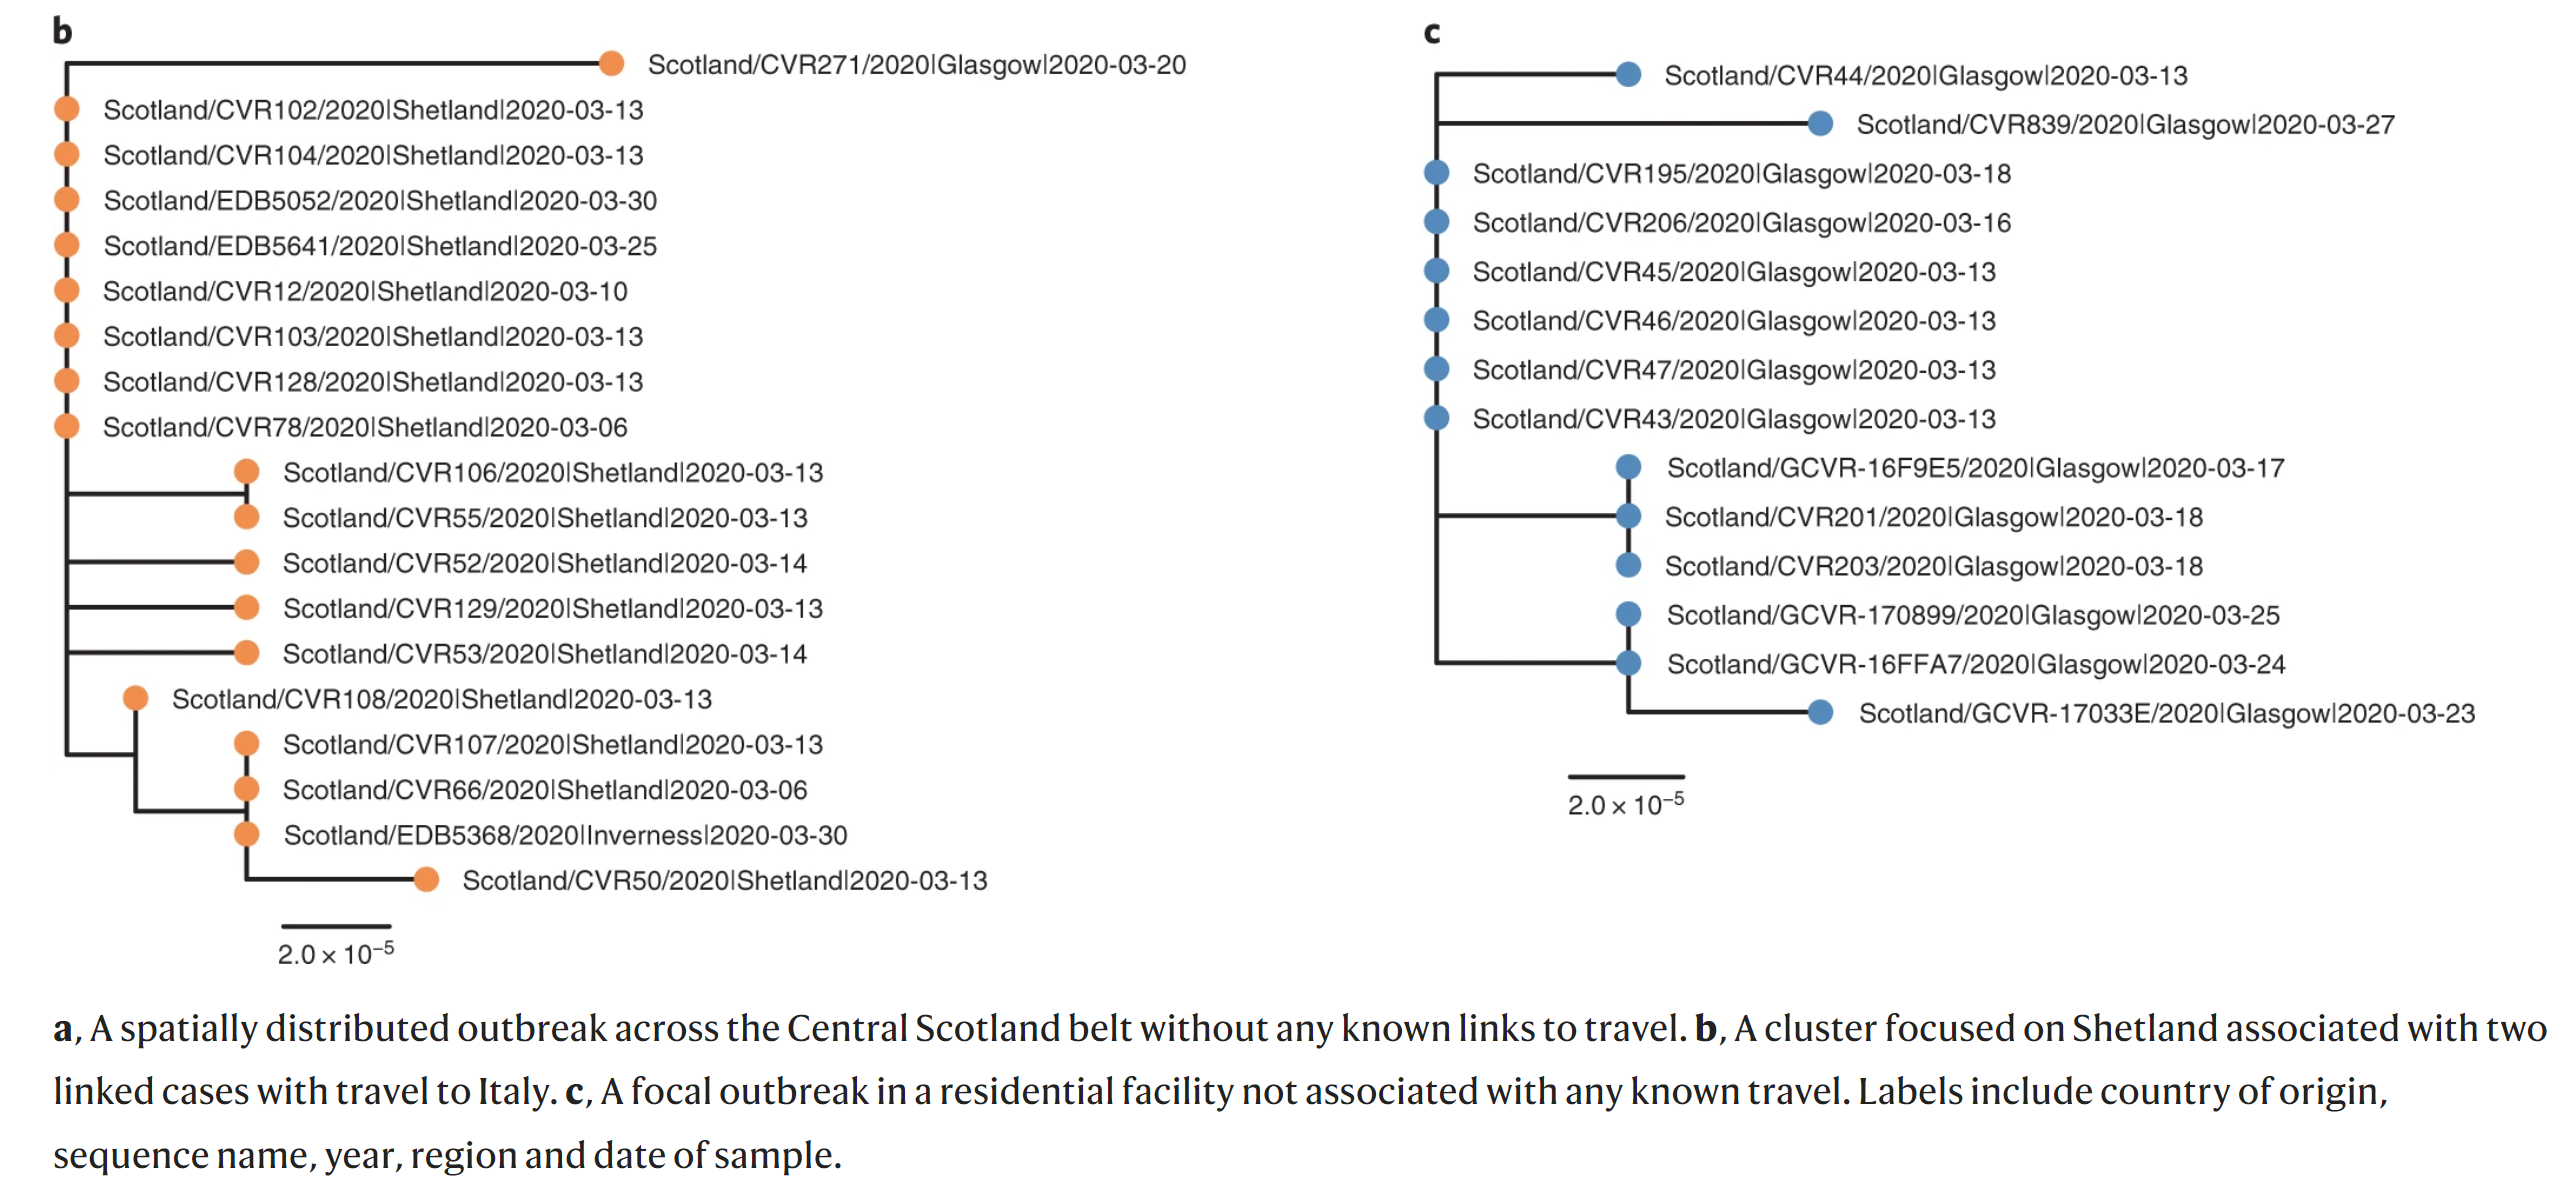
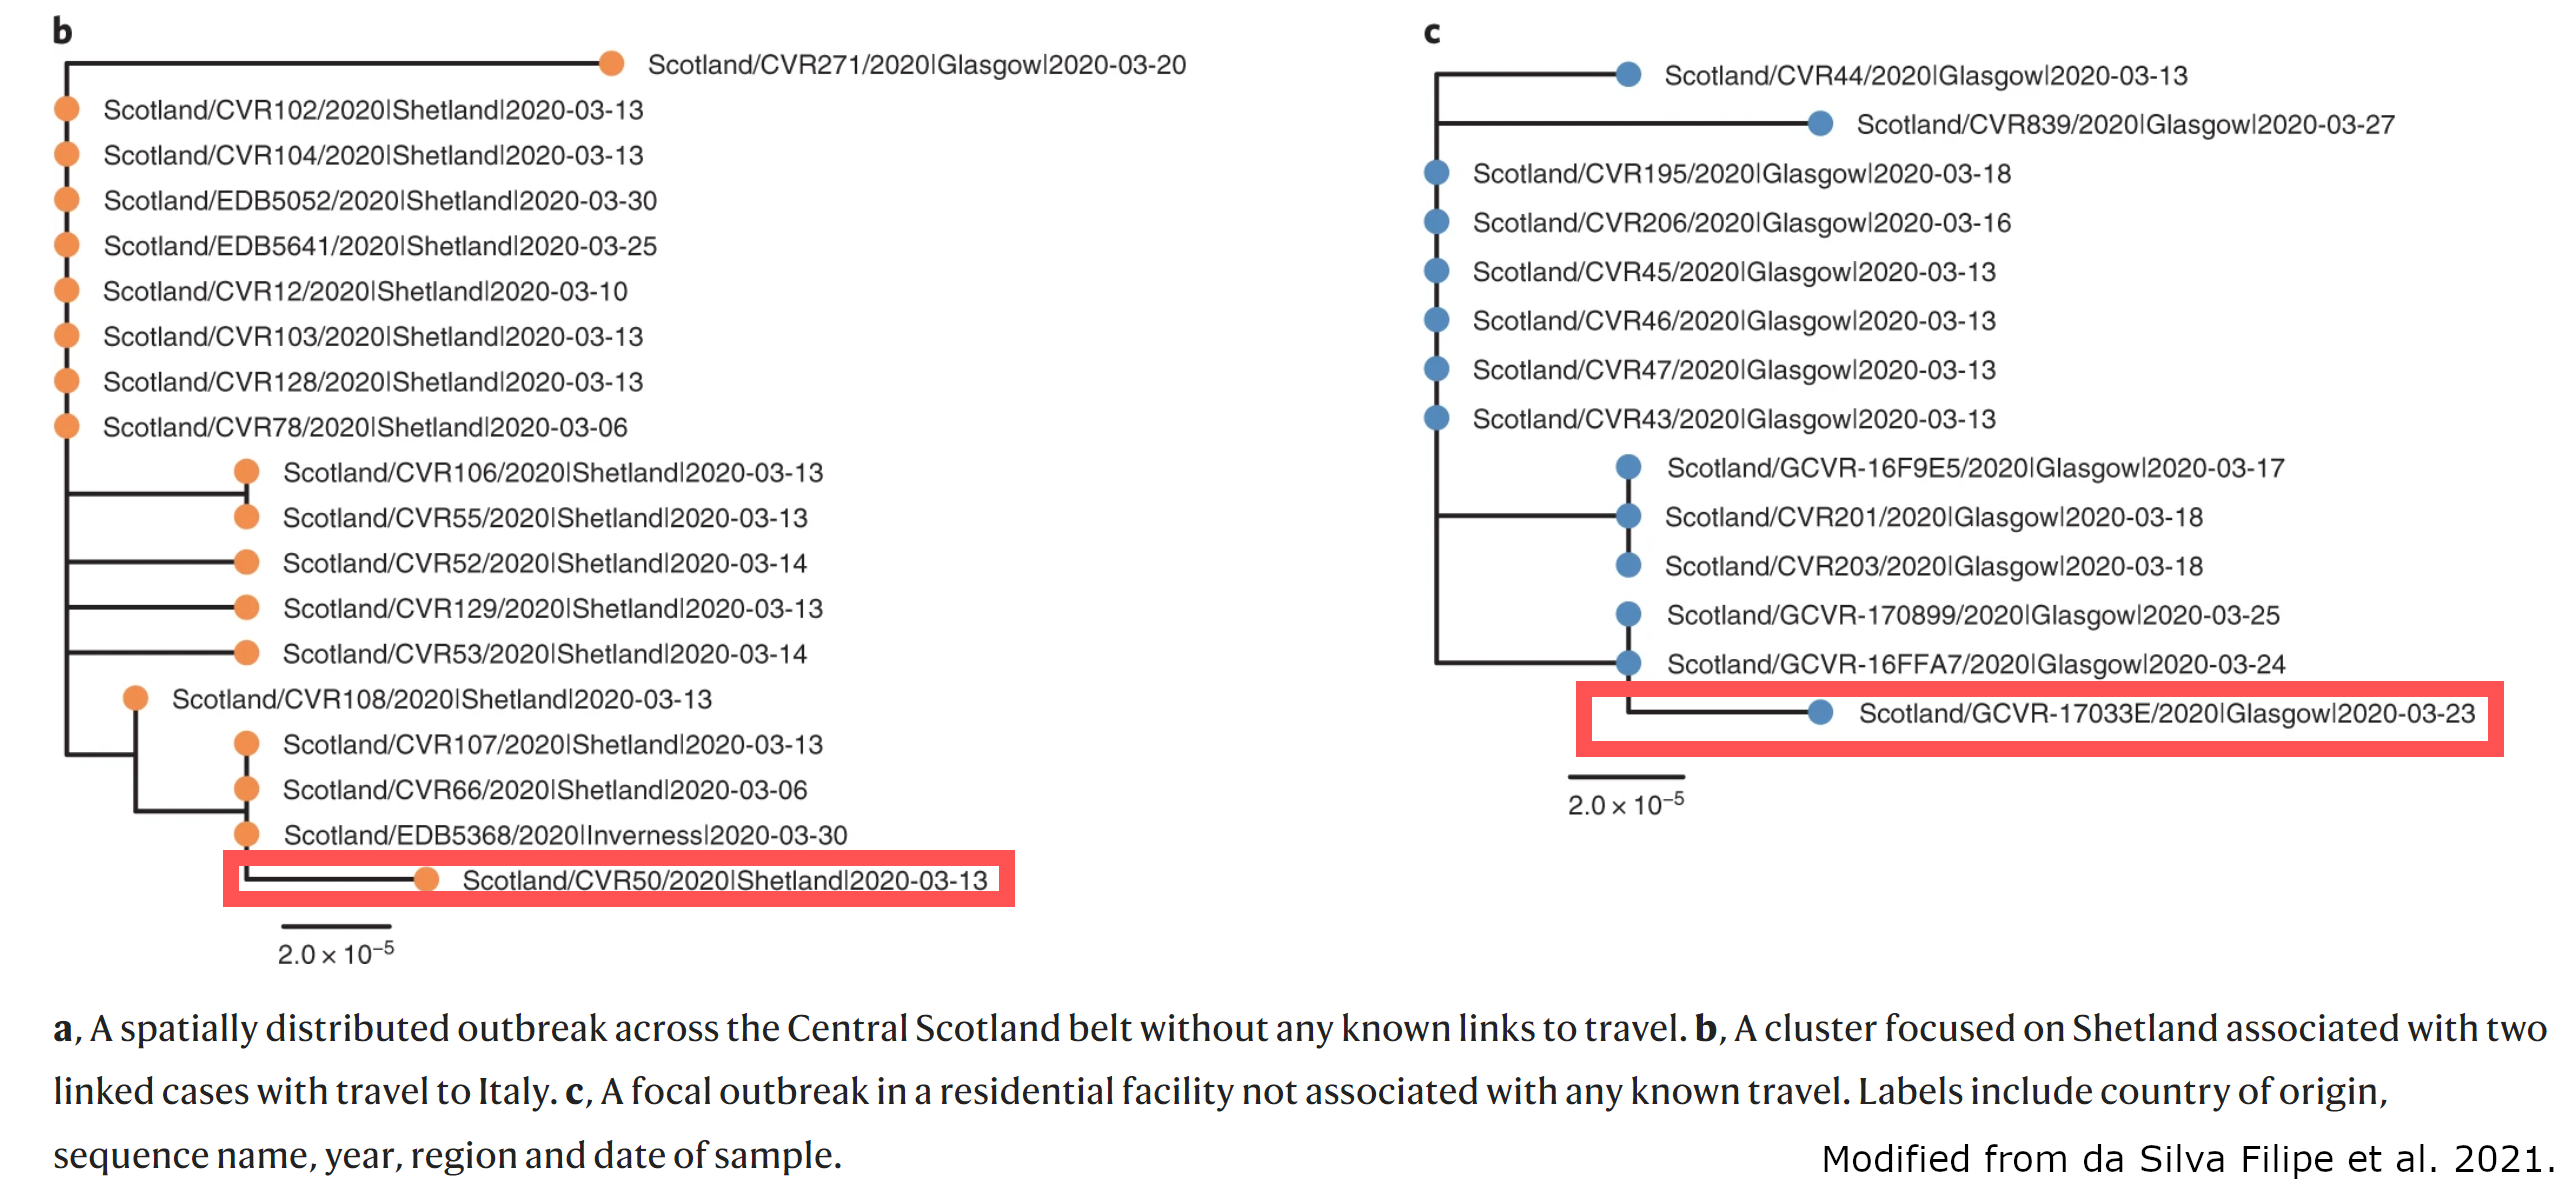
Updated with instructions on exploring the tree

Changed region(s): [[0.5905, 0.5625, 0.9946, 0.6562], [0.0622, 0.7188, 0.404, 0.7812], [0.7148, 0.9688, 0.9946, 1.0]]

diff --git a/module4/README.md b/module4/README.md
@@ -36,6 +36,8 @@ The sequenced genomes from this study are available as part of the [COG-UK Conso
 * [Augur][]
 * [mafft][]
 * [iqtree][]
+* [BuddySuite][]
+* [ETEToolkit][]
 * [treetime][]
 * [Auspice][]
 
@@ -83,7 +85,7 @@ You should see the command-prompt (where you type commands) switch to include `(
 augur 13.0.0
 ```
 
-<a name="ex1"></a>
+<a name="build-tree"></a>
 # 4. Building the phylogenetic tree
 
 The overall goal of this lab is to make use of a set of SARS-CoV-2 genomes sequenced and analyzed by the paper to construct our own phylogenetic tree and visualize our epidemiological metadata on top of this tree to gain insight into the early spread of COVID-19 within Scotland. To do this, we will make use of the [Augur][] tool suite, which powers the [NextStrain](https://nextstrain.org/) website.
@@ -320,6 +322,7 @@ The file `analysis-package.json` contains both the tree as well as the different
 
 ---
 
+<a name="visualize-tree"></a>
 # 5. Visualizing the phylogenetic tree alongside epidemiological metadata
 
 Now that we've constructed and packaged up a tree (`analysis-package.json`), we can visualize this data alongside our metadata (`filtered.tsv`) using [Auspice][].
@@ -356,7 +359,35 @@ Now you can spend some time to explore the data and get used to the Auspice inte
 
 ## Step 3: Examine particular clades
 
+We are now going to compare the tree we constructed from the tree in [Figure 4](https://www.nature.com/articles/s41564-020-00838-z/figures/4) of the existing study.
+
 ![figure5bc.png][]
+
+As a first step, let's examine the tree from **Figure 4.b** in Auspice. We can do this by searching for one of the genomic samples `Scotland/CVR50` in Auspice:
+
+1. Select genome `Scotland/CVR50` by using the **Filter Data** box:
+
+   ![filter-by.png][]
+
+2. Use a combination of **Zoom to Selected** and the zoom out button (magnifying glass) to show the set of genomic samples around `Scotland/CVR50`.
+
+   ![zoom-to-selected][]
+
+3. Select the **Trash icon** for the filter to remove it and select to **Color by** `travel_hx` (Travel history). When you are finished you should see something like below.
+
+   ![selected-subtree.png][]
+
+Compare this tree from that in **Figure 4.b** above. Are there differences? Is **Figure 4.b** a *Divergence* tree or a *Time* tree? Can you spot the two cases associated with travel to Italy in the prior 2 weeks?
+
+Try out the same procedure for the clade from **Figure 4.c** (search for `Scotland/GCVR-17033E`). Does it also look simlar?
+
+---
+
+<a name="end"></a>
+# 6. End of lab
+
+You've made it to the end of the lab. Awesome job. If you find you have some extra time, you can explore the data in Auspice further. For example, perhaps try colouring by `cog_lineage` (Pangolin lineage).
+
 
 [Augur]: https://docs.nextstrain.org/projects/augur/en/stable/index.html
 [mafft]: https://mafft.cbrc.jp/alignment/software/
@@ -373,3 +404,6 @@ Now you can spend some time to explore the data and get used to the Auspice inte
 [figure5bc.png]: images/figure5bc.png
 [tree-alignment.png]: images/tree-alignment.png
 [augur_analysis_sketch.png]: images/augur_analysis_sketch.png
+[filter-by.png]: images/filter-by.png
+[zoom-to-selected.png]: images/zoom-to-selected.png
+[selected-subtree.png]: images/selected-subtree.png
